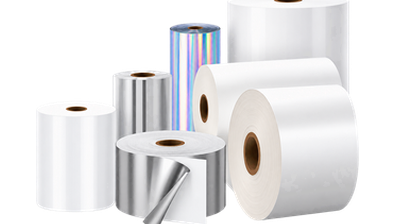
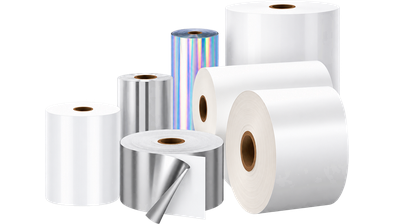
push

diff --git a/src/pages/products.jsx b/src/pages/products.jsx
@@ -13,9 +13,9 @@ const Products = () => {
   return (
     <section
       id="products"
-      className="bg-background px-4 py-16 sm:px-6 md:py-20"
+      className="bg-background px-4 py-16 sm:px-6  md:py-10"
     >
-      <div className="mx-auto max-w-7xl bg-white p-6 rounded-4xl">
+      <div className="mx-auto max-w-7xl rounded-4xl bg-white p-6">
         {/* Section Heading */}
         <motion.div
           initial={{ opacity: 0, y: 35 }}
@@ -55,24 +55,23 @@ const Products = () => {
                 once: true,
                 amount: 0.15,
               }}
-              className="group relative overflow-hidden rounded-2xl border border-border bg-card transition-all duration-500 
-              hover:-translate-y-2 hover:shadow-[0_18px_40px_rgba(21,87,166,0.16)]"
+              className="group relative overflow-hidden rounded-2xl border border-border bg-card transition-all duration-500 hover:-translate-y-2 hover:shadow-[0_18px_40px_rgba(21,87,166,0.16)]"
             >
               <div className="relative h-52 overflow-hidden bg-surface sm:h-56">
                 <img
                   src={product.image}
-                  alt={product.title}
+                  alt={t(product.titleKey)}
                   className="h-full w-full object-contain p-3 transition-transform duration-500 group-hover:scale-110"
                 />
               </div>
 
               <div className="p-5">
                 <h3 className="mt-2 text-lg font-semibold leading-6 text-foreground transition-colors duration-300 group-hover:text-primary">
-                  {product.title}
+                  {t(product.titleKey)}
                 </h3>
 
                 <p className="mt-2 line-clamp-2 text-sm leading-5 text-muted-foreground">
-                  {product.description}
+                  {t(product.descriptionKey)}
                 </p>
 
                 <Button
@@ -116,18 +115,18 @@ const Products = () => {
                 <div className="flex min-h-64 items-center justify-center bg-surface p-6">
                   <img
                     src={selectedProduct.image}
-                    alt={selectedProduct.title}
+                    alt={t(selectedProduct.titleKey)}
                     className="max-h-72 w-full object-contain"
                   />
                 </div>
 
                 <div className="p-6 sm:p-8">
                   <h3 className="mt-3 text-2xl font-bold text-foreground">
-                    {selectedProduct.title}
+                    {t(selectedProduct.titleKey)}
                   </h3>
 
                   <p className="mt-4 text-sm leading-6 text-muted-foreground">
-                    {selectedProduct.description}
+                    {t(selectedProduct.descriptionKey)}
                   </p>
 
                   <Button className="mt-6 cursor-pointer bg-primary transition-all duration-300 hover:bg-primary-hover hover:shadow-md">

diff --git a/src/data/products.js b/src/data/products.js
@@ -1,40 +1,40 @@
 import { Colors, Flekso, Gupka, Rakel, Rulon, Tesa } from "@/assets";
 
 export const products = [
-    {
+  {
     id: 1,
-    title: "Flekso bosma uchun barcha turdagi materiallar",
-    description: "Har bir material o‘zining xususiyatiga ko‘ra turli xil mahsulotlar va qadoqlash turlarida qo‘llaniladi. Material tanlovi bosma sifati, tashqi ko‘rinishi va mahsulot talablariga qarab belgilanadi.",
+    titleKey: "products.items.rolls.title",
+    descriptionKey: "products.items.rolls.description",
     image: Rulon,
   },
-   {
+  {
     id: 2,
-    title: "Flekso bosma uchun Led UV bo'yoqlar",
-    description: "Led UV bo'yoqlar flexo pechatda yuqori sifatli va tez quriydigan bosma olish uchun qo'llaniladi. Led UV nuri ta'sirida tez qotadi, ranglari yorqin va aniq chiqadi.",
+    titleKey: "products.items.uvColors.title",
+    descriptionKey: "products.items.uvColors.description",
     image: Colors,
   },
-   {
+  {
     id: 3,
-    title: "Tesa skotchi",
-    description: "Bosma jarayonida mustahkam yopishish va barqaror natijani ta’minlaydi.",
+    titleKey: "products.items.tesa.title",
+    descriptionKey: "products.items.tesa.description",
     image: Tesa,
   },
-   {
+  {
     id: 4,
-    title: "Pantone katalogi",
-    description: "Flekso bosmada ranglarni aniq tanlash va solishtirish uchun ishlatiladigan ranglar katalogi.",
+    titleKey: "products.items.pantone.title",
+    descriptionKey: "products.items.pantone.description",
     image: Flekso,
   },
-   {
+  {
     id: 5,
-    title: "Rakel",
-    description: "Flekso bosmada boʼyoqni aniloks valdan klishega bir tekis uzatish uchun ishlatiladigan maxsus pichoq.",
+    titleKey: "products.items.rakel.title",
+    descriptionKey: "products.items.rakel.description",
     image: Rakel,
   },
-   {
+  {
     id: 6,
-    title: "Tozalovchi vositalar",
-    description: "Flekso uskunalari va ishchi qismlarni bo‘yoq hamda boshqa qoldiqlardan tozalash uchun ishlatiladi.",
+    titleKey: "products.items.cleaning.title",
+    descriptionKey: "products.items.cleaning.description",
     image: Gupka,
   },
-]
+];

diff --git a/src/components/hero.jsx b/src/components/hero.jsx
@@ -1,10 +1,5 @@
 import { Mbg } from "@/assets";
-import {
-  ArrowRight,
-  ShieldCheck,
-  Truck,
-  Settings2,
-} from "lucide-react";
+import { ArrowRight, ShieldCheck, Truck, Settings2 } from "lucide-react";
 import { useTranslation } from "react-i18next";
 import { Button } from "./ui/button";
 import { motion } from "motion/react";
@@ -45,12 +40,14 @@ const Hero = () => {
       className="relative min-h-[500px] overflow-hidden sm:min-h-[500px] md:min-h-[520px] lg:min-h-[640px] min-[1441px]:h-[calc(100dvh-116px)]"
     >
       {/* Background Image */}
+
       <img
         src={Mbg}
         alt="MALBERT printing production"
         className="absolute inset-0 h-full w-full object-cover object-[85%_center] sm:object-[68%_center] md:object-[70%_center] lg:object-center"
       />
 
+      <div className="absolute inset-0 bg-gradient-to-r from-black/75 via-black/55 to-black/30" />
       {/* Content */}
       <div className="relative z-10 mx-auto flex min-h-[500px] max-w-7xl items-center px-4 sm:min-h-[500px] sm:px-6 md:min-h-[520px] md:px-8 lg:min-h-[640px] lg:px-6 min-[1441px]:h-full">
         <div className="w-full max-w-[480px] sm:max-w-[520px] md:max-w-[580px] lg:max-w-xl">

diff --git a/src/assets/index.js b/src/assets/index.js
@@ -22,4 +22,4 @@ export {default as Flekso} from "./products/4.png"
 export {default as Rulon} from "./products/1.png"
 export {default as Colors} from "./products/2.png"
 export {default as Gupka} from "./products/6.png"
-export {default as Mbg} from "./m-bg.jpg"
+export {default as Mbg} from "./m-bg.png"
